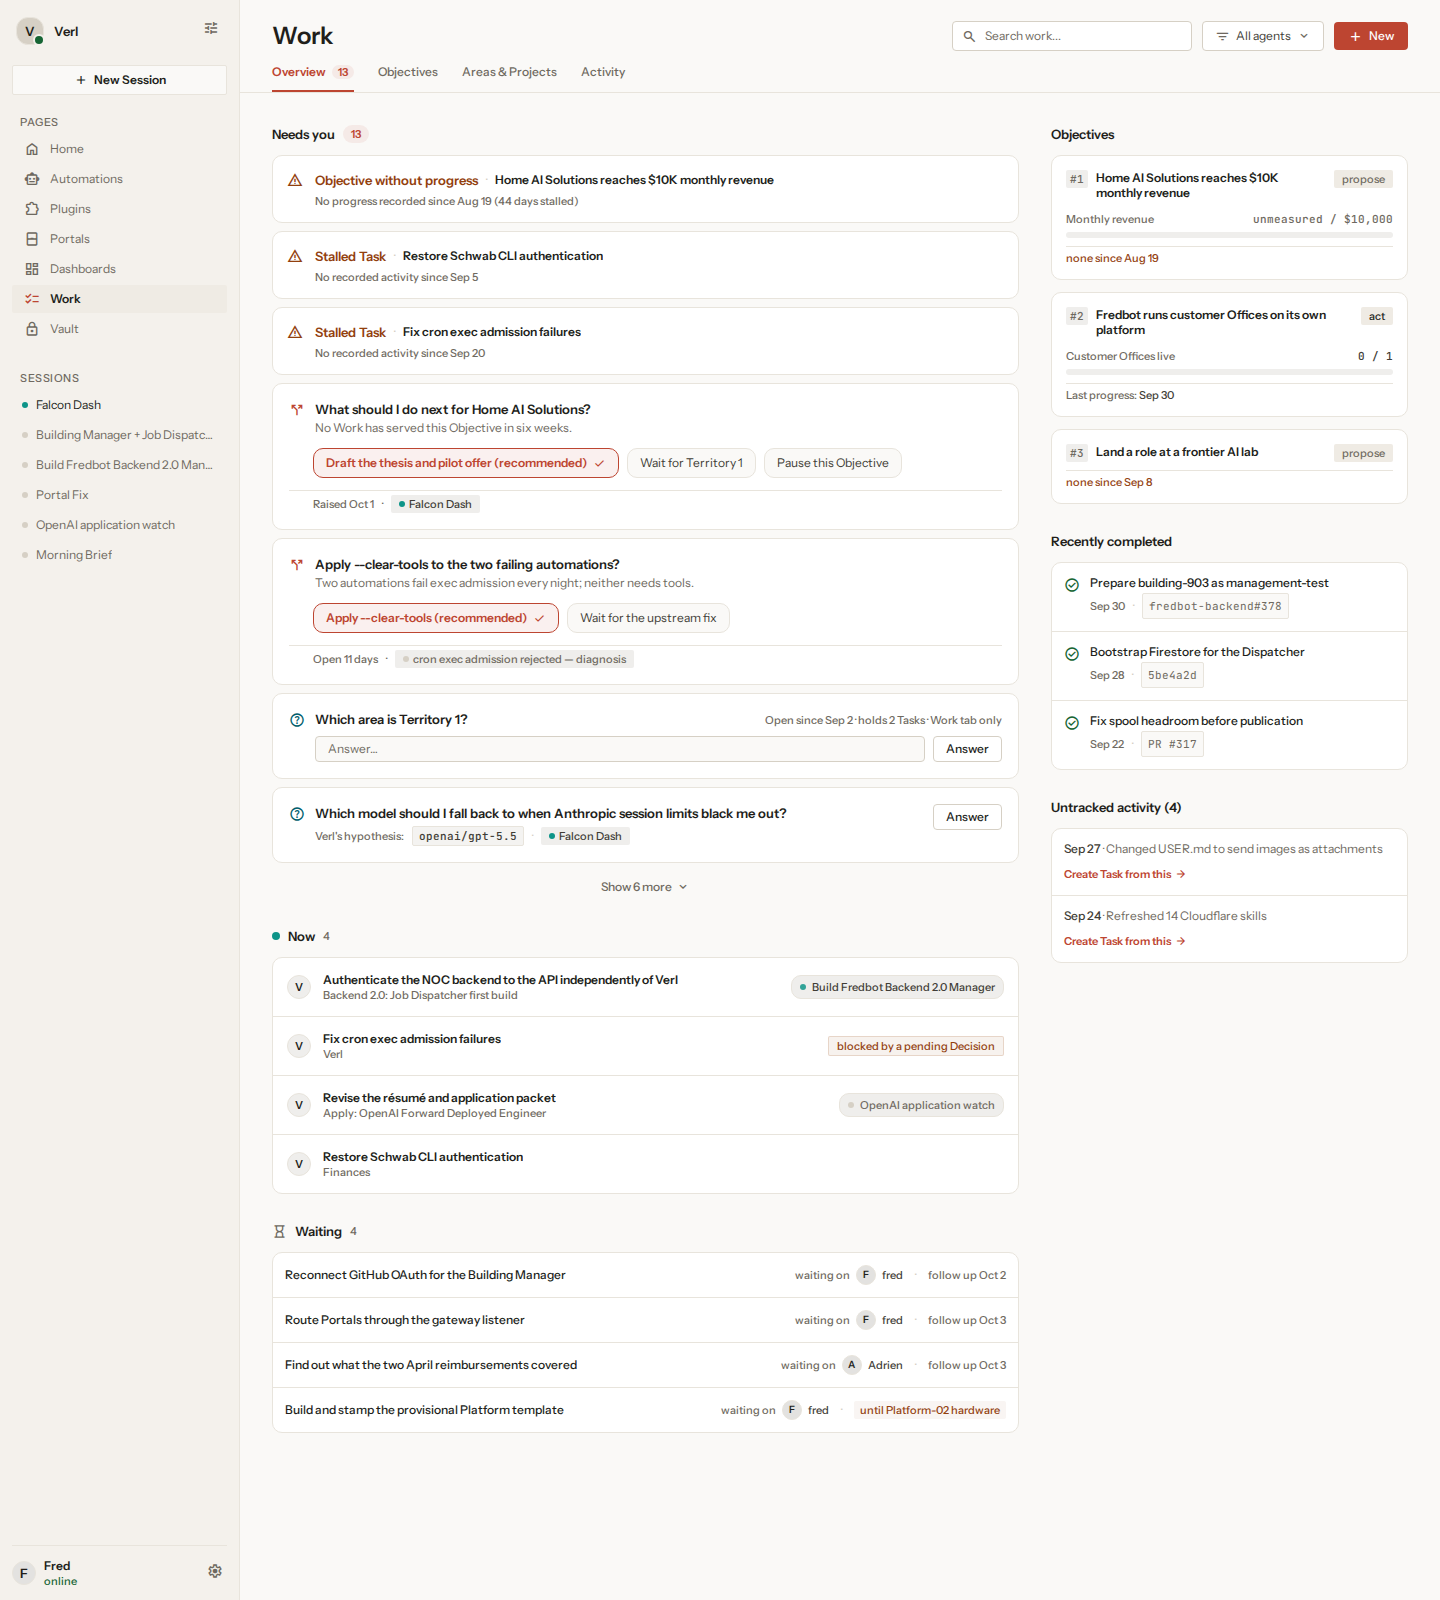
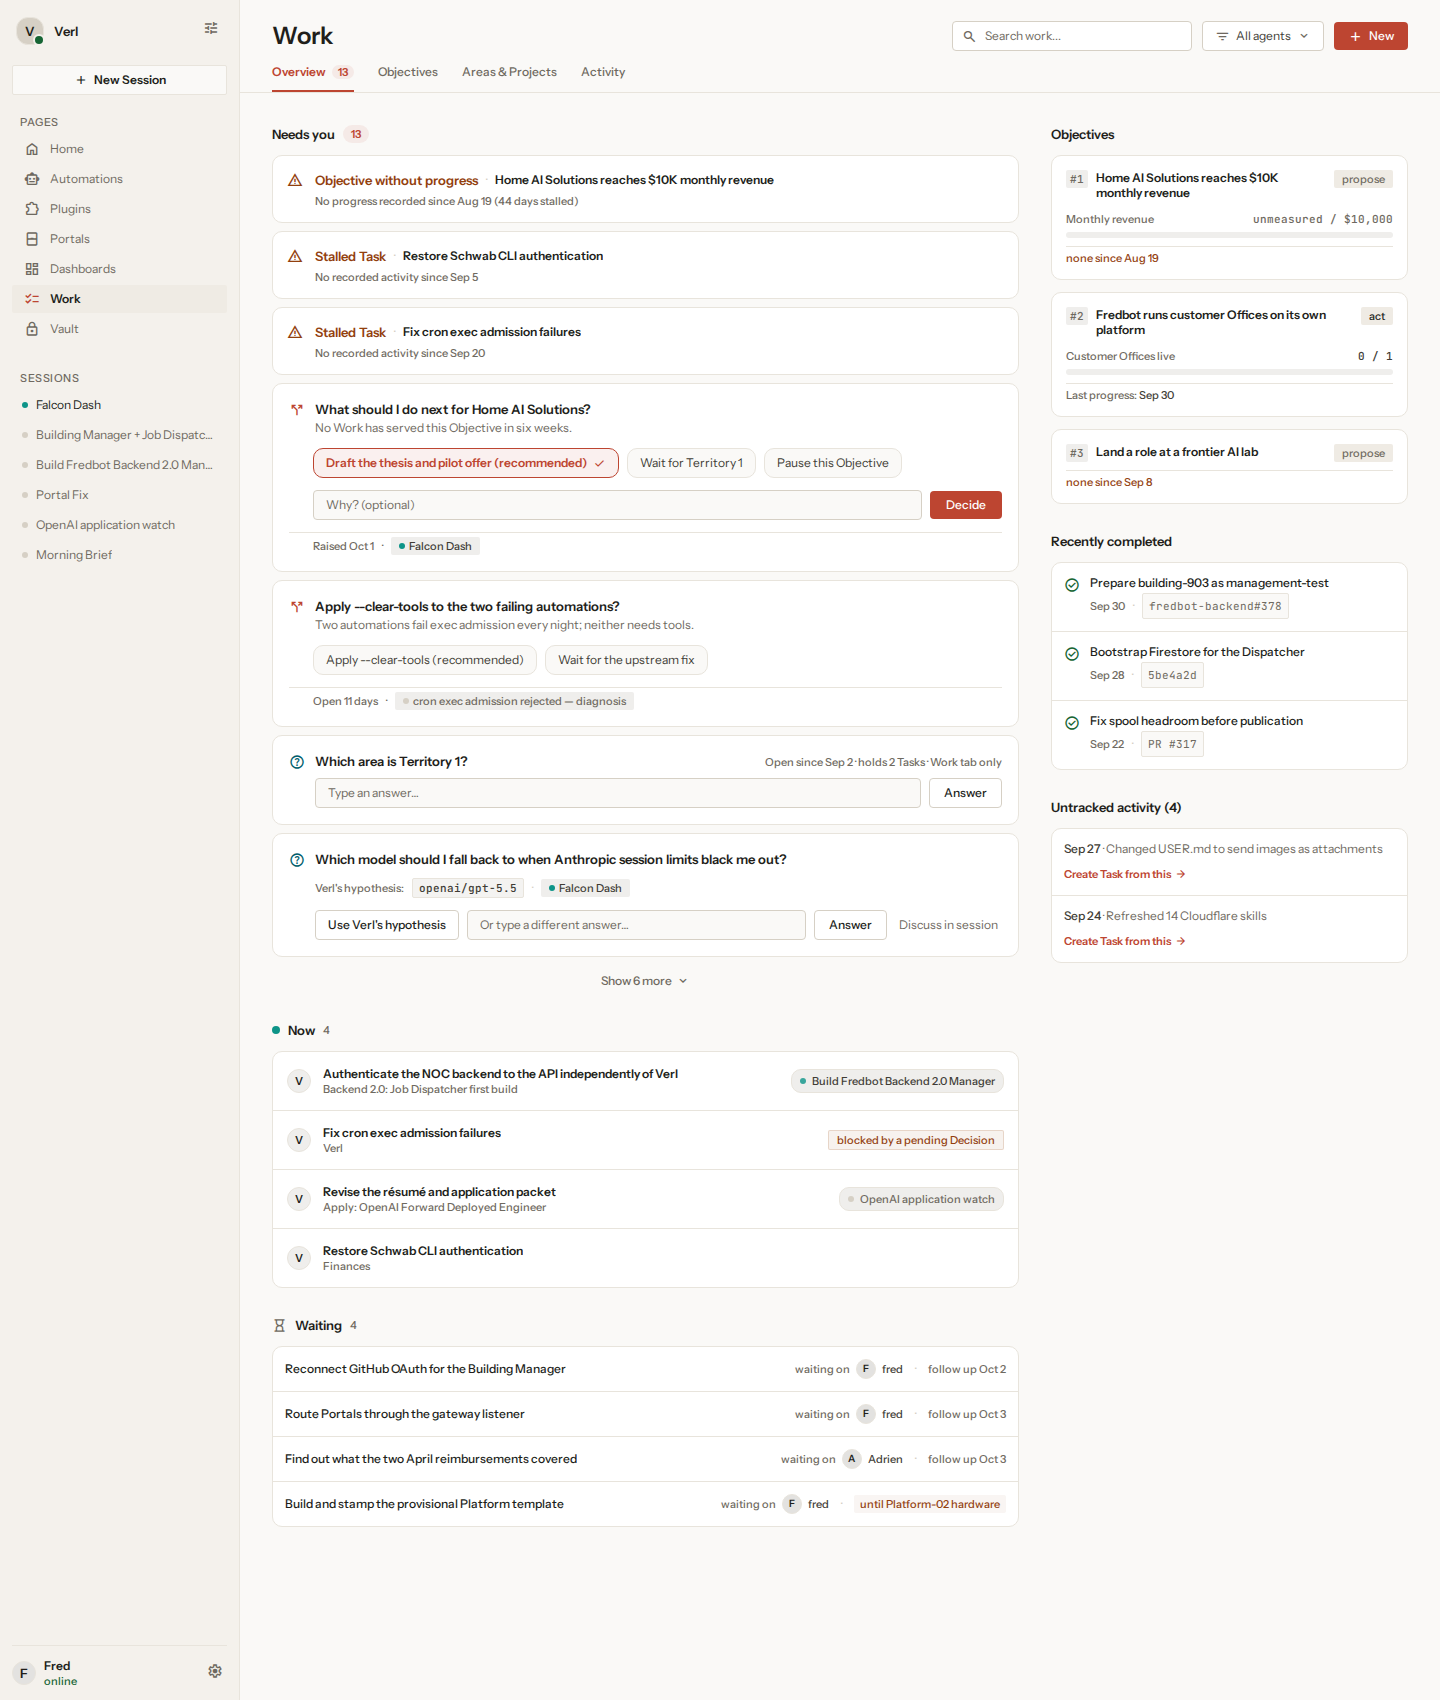
design(work): explicit answer and decide interactions; human decision reason optional

diff --git a/.stitch/screens/work-overview.html b/.stitch/screens/work-overview.html
@@ -352,87 +352,13 @@
 </div>
 </div>
 <!-- Decision row 1: Home AI Solutions Next Step -->
-<div class="bg-card border border-border rounded-card p-4 space-y-3 hover:border-border-strong transition-colors duration-150 ease-in-out">
-<div class="flex items-start gap-2.5">
-<span class="material-symbols-outlined text-primary flex-shrink-0 mt-0.5" data-icon="call_split">call_split</span>
-<div class="flex-1">
-<h3 class="font-headline-sm text-headline-sm font-semibold text-text-strong">What should I do next for Home AI Solutions?</h3>
-<p class="font-body-sm text-body-sm text-muted mt-0.5">No Work has served this Objective in six weeks.</p>
-</div>
-</div>
-<!-- Option Pills -->
-<div class="flex flex-wrap gap-2 pl-6">
-<button class="border border-primary bg-accent-subtle text-primary font-body-sm text-body-sm font-semibold px-3 py-1.5 rounded-card flex items-center gap-1.5 hover:bg-primary hover:text-on-primary transition-colors duration-150 ease-in-out">
-<span>Draft the thesis and pilot offer (recommended)</span>
-<span class="material-symbols-outlined text-[13px]" data-icon="check">check</span>
-</button>
-<button class="border border-border bg-surface text-text hover:bg-bg-hover hover:border-border-strong font-body-sm text-body-sm px-3 py-1.5 rounded-card transition-colors duration-150 ease-in-out">
-                    Wait for Territory 1
-                  </button>
-<button class="border border-border bg-surface text-text hover:bg-bg-hover hover:border-border-strong font-body-sm text-body-sm px-3 py-1.5 rounded-card transition-colors duration-150 ease-in-out">
-                    Pause this Objective
-                  </button>
-</div>
-<!-- Meta Line -->
-<div class="pl-6 flex items-center gap-2 pt-1 font-label-xs text-label-xs text-muted border-t border-border"><span>Raised Oct 1</span><span>·</span><span class="inline-flex items-center gap-1 px-2 py-0.5 bg-surface-container rounded font-medium text-text"><span class="w-1.5 h-1.5 rounded-full bg-[#0d9488]"></span>Falcon Dash</span></div>
-</div>
+<div class="bg-card border border-border rounded-card p-4 space-y-3 hover:border-border-strong transition-colors duration-150 ease-in-out"><div class="flex items-start gap-2.5"><span class="material-symbols-outlined text-primary flex-shrink-0 mt-0.5" data-icon="call_split">call_split</span><div class="flex-1"><h3 class="font-headline-sm text-headline-sm font-semibold text-text-strong">What should I do next for Home AI Solutions?</h3><p class="font-body-sm text-body-sm text-muted mt-0.5">No Work has served this Objective in six weeks.</p></div></div><div class="flex flex-wrap gap-2 pl-6"><button class="border border-primary bg-accent-subtle text-primary font-body-sm text-body-sm font-semibold px-3 py-1.5 rounded-card flex items-center gap-1.5 hover:bg-primary hover:text-on-primary transition-colors duration-150 ease-in-out"><span>Draft the thesis and pilot offer (recommended)</span><span class="material-symbols-outlined text-[13px]" data-icon="check">check</span></button><button class="border border-border bg-surface text-text hover:bg-bg-hover hover:border-border-strong font-body-sm text-body-sm px-3 py-1.5 rounded-card transition-colors duration-150 ease-in-out">Wait for Territory 1</button><button class="border border-border bg-surface text-text hover:bg-bg-hover hover:border-border-strong font-body-sm text-body-sm px-3 py-1.5 rounded-card transition-colors duration-150 ease-in-out">Pause this Objective</button></div><div class="pl-6 flex items-center gap-2"><input class="flex-1 bg-surface border border-border-strong rounded-lg px-3 py-1.5 font-body-sm text-body-sm text-text placeholder-muted focus:outline-none focus:border-primary shadow-none" placeholder="Why? (optional)" type="text"/><button class="bg-primary hover:bg-[#a53b29] text-on-primary font-body-sm text-body-sm font-medium px-4 py-1.5 rounded-lg transition-colors duration-150 ease-in-out shadow-none flex-shrink-0">Decide</button></div><div class="pl-6 flex items-center gap-2 pt-1 font-label-xs text-label-xs text-muted border-t border-border"><span>Raised Oct 1</span><span>·</span><span class="inline-flex items-center gap-1 px-2 py-0.5 bg-surface-container rounded font-medium text-text"><span class="w-1.5 h-1.5 rounded-full bg-[#0d9488]"></span>Falcon Dash</span></div></div>
 <!-- Decision row 2: Failing Automations -->
-<div class="bg-card border border-border rounded-card p-4 space-y-3 hover:border-border-strong transition-colors duration-150 ease-in-out">
-<div class="flex items-start gap-2.5">
-<span class="material-symbols-outlined text-primary flex-shrink-0 mt-0.5" data-icon="call_split">call_split</span>
-<div class="flex-1">
-<h3 class="font-headline-sm text-headline-sm font-semibold text-text-strong">Apply --clear-tools to the two failing automations?</h3>
-<p class="font-body-sm text-body-sm text-muted mt-0.5">Two automations fail exec admission every night; neither needs tools.</p>
-</div>
-</div>
-<!-- Option Pills -->
-<div class="flex flex-wrap gap-2 pl-6">
-<button class="border border-primary bg-accent-subtle text-primary font-body-sm text-body-sm font-semibold px-3 py-1.5 rounded-card flex items-center gap-1.5 hover:bg-primary hover:text-on-primary transition-colors duration-150 ease-in-out">
-<span>Apply --clear-tools (recommended)</span>
-<span class="material-symbols-outlined text-[13px]" data-icon="check">check</span>
-</button>
-<button class="border border-border bg-surface text-text hover:bg-bg-hover hover:border-border-strong font-body-sm text-body-sm px-3 py-1.5 rounded-card transition-colors duration-150 ease-in-out">
-                    Wait for the upstream fix
-                  </button>
-</div>
-<!-- Meta Line -->
-<div class="pl-6 flex items-center gap-2 pt-1 font-label-xs text-label-xs text-muted border-t border-border">
-<span>Open 11 days</span>
-<span>·</span>
-<span class="inline-flex items-center gap-1 px-2 py-0.5 bg-surface-container rounded font-medium text-muted">
-<span class="w-1.5 h-1.5 rounded-full bg-border-strong"></span>
-                    cron exec admission rejected — diagnosis
-                  </span>
-</div>
-</div>
+<div class="bg-card border border-border rounded-card p-4 space-y-3 hover:border-border-strong transition-colors duration-150 ease-in-out"><div class="flex items-start gap-2.5"><span class="material-symbols-outlined text-primary flex-shrink-0 mt-0.5" data-icon="call_split">call_split</span><div class="flex-1"><h3 class="font-headline-sm text-headline-sm font-semibold text-text-strong">Apply --clear-tools to the two failing automations?</h3><p class="font-body-sm text-body-sm text-muted mt-0.5">Two automations fail exec admission every night; neither needs tools.</p></div></div><div class="flex flex-wrap gap-2 pl-6"><button class="border border-border bg-surface text-text hover:bg-bg-hover hover:border-border-strong font-body-sm text-body-sm px-3 py-1.5 rounded-card transition-colors duration-150 ease-in-out">Apply --clear-tools (recommended)</button><button class="border border-border bg-surface text-text hover:bg-bg-hover hover:border-border-strong font-body-sm text-body-sm px-3 py-1.5 rounded-card transition-colors duration-150 ease-in-out">Wait for the upstream fix</button></div><div class="pl-6 flex items-center gap-2 pt-1 font-label-xs text-label-xs text-muted border-t border-border"><span>Open 11 days</span><span>·</span><span class="inline-flex items-center gap-1 px-2 py-0.5 bg-surface-container rounded font-medium text-muted"><span class="w-1.5 h-1.5 rounded-full bg-border-strong"></span>cron exec admission rejected — diagnosis</span></div></div>
 <!-- Question row 1: Territory 1 definition -->
-<div class="bg-card border border-border rounded-card p-4 space-y-3 hover:border-border-strong transition-colors duration-150 ease-in-out">
-<div class="flex items-start gap-2.5">
-<span class="material-symbols-outlined text-tertiary flex-shrink-0 mt-0.5" data-icon="help_outline">help_outline</span>
-<div class="flex-1">
-<div class="flex items-baseline justify-between">
-<h3 class="font-headline-sm text-headline-sm font-semibold text-text-strong">Which area is Territory 1?</h3>
-<span class="font-label-xs text-label-xs text-muted">Open since Sep 2 · holds 2 Tasks · Work tab only</span>
-</div>
-<!-- Inline answer form -->
-<div class="mt-2 flex items-center gap-2">
-<input class="flex-1 bg-surface border border-border-strong rounded-lg px-3 py-1 font-body-sm text-body-sm text-text placeholder-muted focus:outline-none focus:border-primary shadow-none" placeholder="Answer…" type="text"/>
-<button class="bg-card border border-border-strong text-text-strong hover:bg-bg-hover font-body-sm text-body-sm font-medium px-3 py-1 rounded-lg transition-colors duration-150 ease-in-out shadow-none">Answer</button>
-</div>
-</div>
-</div>
-</div>
+<div class="bg-card border border-border rounded-card p-4 space-y-3 hover:border-border-strong transition-colors duration-150 ease-in-out"><div class="flex items-start gap-2.5"><span class="material-symbols-outlined text-tertiary flex-shrink-0 mt-0.5" data-icon="help_outline">help_outline</span><div class="flex-1"><div class="flex items-baseline justify-between"><h3 class="font-headline-sm text-headline-sm font-semibold text-text-strong">Which area is Territory 1?</h3><span class="font-label-xs text-label-xs text-muted">Open since Sep 2 · holds 2 Tasks · Work tab only</span></div><div class="mt-2 flex items-center gap-2"><input class="flex-1 bg-surface border border-border-strong rounded-lg px-3 py-1.5 font-body-sm text-body-sm text-text placeholder-muted focus:outline-none focus:border-primary shadow-none" placeholder="Type an answer…" type="text"/><button class="bg-card border border-border-strong text-text-strong hover:bg-bg-hover font-body-sm text-body-sm font-medium px-3.5 py-1.5 rounded-lg transition-colors duration-150 ease-in-out shadow-none flex-shrink-0">Answer</button></div></div></div></div>
 <!-- Question row 2: Anthropic fallback model -->
-<div class="bg-card border border-border rounded-card p-4 space-y-2 hover:border-border-strong transition-colors duration-150 ease-in-out">
-<div class="flex items-start gap-2.5">
-<span class="material-symbols-outlined text-tertiary flex-shrink-0 mt-0.5" data-icon="help_outline">help_outline</span>
-<div class="flex-1 min-w-0">
-<h3 class="font-headline-sm text-headline-sm font-semibold text-text-strong">Which model should I fall back to when Anthropic session limits black me out?</h3>
-<div class="mt-1 flex items-center gap-2 font-label-xs text-label-xs text-muted"><span>Verl's hypothesis:</span><span class="font-code text-[11px] text-text bg-surface-container-low px-1.5 py-0.5 border border-border rounded">openai/gpt-5.5</span><span class="text-border-strong">·</span><span class="inline-flex items-center gap-1 px-2 py-0.5 bg-surface-container rounded font-medium text-text"><span class="w-1.5 h-1.5 rounded-full bg-[#0d9488]"></span>Falcon Dash</span></div>
-</div>
-<button class="bg-card border border-border-strong text-text-strong hover:bg-bg-hover font-body-sm text-body-sm font-medium px-3 py-1 rounded-lg transition-colors duration-150 ease-in-out shadow-none">Answer</button>
-</div>
-</div>
+<div class="bg-card border border-border rounded-card p-4 space-y-2 hover:border-border-strong transition-colors duration-150 ease-in-out"><div class="flex items-start gap-2.5"><span class="material-symbols-outlined text-tertiary flex-shrink-0 mt-0.5" data-icon="help_outline">help_outline</span><div class="flex-1 min-w-0 space-y-2.5"><h3 class="font-headline-sm text-headline-sm font-semibold text-text-strong">Which model should I fall back to when Anthropic session limits black me out?</h3><div class="flex items-center gap-2 font-label-xs text-label-xs text-muted"><span>Verl's hypothesis:</span><span class="font-code text-[11px] text-text bg-surface-container-low px-1.5 py-0.5 border border-border rounded">openai/gpt-5.5</span><span class="text-border-strong">·</span><span class="inline-flex items-center gap-1 px-2 py-0.5 bg-surface-container rounded font-medium text-text"><span class="w-1.5 h-1.5 rounded-full bg-[#0d9488]"></span>Falcon Dash</span></div><div class="flex items-center gap-2 pt-0.5"><button class="bg-card border border-border-strong text-text-strong hover:bg-bg-hover font-body-sm text-body-sm font-medium px-3 py-1.5 rounded-lg transition-colors duration-150 ease-in-out shadow-none flex-shrink-0">Use Verl's hypothesis</button><input class="flex-1 bg-surface border border-border-strong rounded-lg px-3 py-1.5 font-body-sm text-body-sm text-text placeholder-muted focus:outline-none focus:border-primary shadow-none" placeholder="Or type a different answer…" type="text"/><button class="bg-card border border-border-strong text-text-strong hover:bg-bg-hover font-body-sm text-body-sm font-medium px-3.5 py-1.5 rounded-lg transition-colors duration-150 ease-in-out shadow-none flex-shrink-0">Answer</button><a class="font-body-sm text-body-sm text-muted hover:text-text-strong transition-colors duration-150 ease-in-out px-1 flex-shrink-0" href="#">Discuss in session</a></div></div></div></div>
 <!-- Show more expander button -->
 <div class="pt-1 text-center">
 <button class="font-body-sm text-body-sm text-muted hover:text-text-strong font-medium py-1 px-3 rounded hover:bg-bg-hover transition-colors duration-150 ease-in-out inline-flex items-center gap-1">

diff --git a/docs/work-spec.md b/docs/work-spec.md
@@ -168,12 +168,20 @@ or Project.
 - `open` → `answered` (answer, confidence `tentative`/`supported`/`confirmed`, sources) or
   `withdrawn` (reason). An answer can be superseded by a later answer; history is kept.
 - An agent may record a **hypothesis** while waiting; it is shown as such, never as the answer.
+- **Answering in the Work tab:** a text field and **Answer** submit immediately, recorded as the
+  human's answer with `confirmed` confidence; a brief Undo follows, and a later answer can replace
+  it with history kept. When the agent recorded a hypothesis, **Use <agent>'s hypothesis** records
+  that hypothesis as the human's confirmed answer, attributed to the human as accepting it. With a
+  session, **Discuss in session** opens it.
 
 **Decision** — a choice with consequences.
 - `prompt`, `options` (two or more: label, summary, risks, trade-offs), `recommendation`
   (option + rationale), `deciders`, `consequence_of_no_decision`.
-- `pending` → `decided` (option, rationale, decider) · `deferred` (until a date) · `withdrawn`
-  · `superseded` (by another Decision).
+- `pending` → `decided` (option, decider, rationale) · `deferred` (until a date) · `withdrawn`
+  · `superseded` (by another Decision). Rationale is required when an agent decides and
+  optional when a human does.
+- **Deciding in the Work tab:** clicking an option selects it (it does not decide); a row then
+  offers an optional "Why?" and **Decide**. The recommended option is labelled, not preselected.
 - Uses: approval of consequential steps (§6), agent proposals toward an Objective (§3), and
   genuine design choices.
 
@@ -317,3 +325,6 @@ transcripts (OpenClaw owns sessions; Work links to them) · runtime permission e
    event subscriptions (follow-on).
 6. Work's sidebar icon is `listChecks`. The UI is designed in Stitch first, on OpenClaw's own
    theme. The `falcon_work` command list waits until the UI design is settled.
+7. Answering a Question submits immediately (with Undo); "Use <agent>'s hypothesis" accepts the
+   hypothesis as the human's answer. Choosing a Decision option only selects it; Decide commits,
+   with an optional reason when a human decides.

diff --git a/.stitch/README.md b/.stitch/README.md
@@ -11,5 +11,5 @@
 
 | Screen | Stitch id | Rounds |
 | --- | --- | --- |
-| Work overview | `e4517724fd104f13919c2c738eac0ac7` | generated, 2 correction rounds |
+| Work overview | `a1f5dee0b08b44dcb5c27a0cedfc9d92` | generated, 2 correction rounds, then Question/Decision interactions |
 | Work overview, dark | `b096ab84af9e4f48862dc4d87b5c07a6` | colour-only remap to the dark host tokens; some text left too dim (mockup artifact) |
